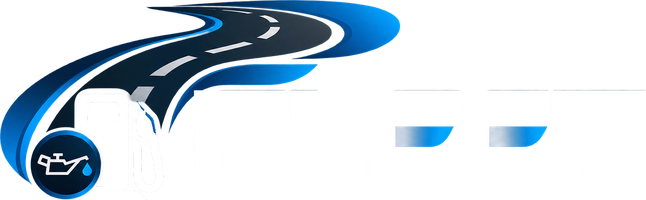
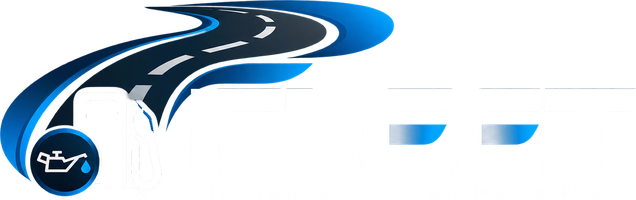
FLEET volta com o subtítulo; Manaus Luz sem subtítulo
Claude-Session: https://claude.ai/code/session_01Hc63GVNXg4wSzkGymq9e8X

diff --git a/assets/estilo.css b/assets/estilo.css
@@ -264,7 +264,7 @@ body.fundo-pc .card,body.fundo-pc .kpi{box-shadow:0 4px 18px rgba(11,40,90,.08)}
 .top-in{display:grid!important;grid-template-columns:1fr auto 1fr;align-items:center;gap:12px}
 .top-in .acts{justify-self:end}
 .brand-fleet{margin:0;line-height:0;justify-self:start}
-.brand-fleet img{height:46px;width:auto;display:block}
+.brand-fleet img{height:58px;width:auto;display:block}
 .brand-centro{justify-self:center}
 .brand-nome{font-family:var(--f-disp);font-weight:700;font-size:24px;line-height:1;white-space:nowrap}
 .fleet-tema{width:100%;max-width:300px;height:auto;display:block;margin:0 auto 12px}
@@ -272,7 +272,7 @@ body.fundo-pc .card,body.fundo-pc .kpi{box-shadow:0 4px 18px rgba(11,40,90,.08)}
 :root[data-theme="dark"] .fleet-tema{display:none}
 :root[data-theme="dark"] .fleet-tema.escuro{display:block}
 @media (prefers-color-scheme:dark){:root:not([data-theme="light"]) .fleet-tema{display:none}:root:not([data-theme="light"]) .fleet-tema.escuro{display:block}}
-@media (max-width:760px){.top-in{grid-template-columns:auto 1fr}.brand-centro{grid-column:1/-1;grid-row:2;justify-self:start}.brand-fleet img{height:38px}.brand-nome{font-size:20px}}
+@media (max-width:760px){.top-in{grid-template-columns:auto 1fr}.brand-centro{grid-column:1/-1;grid-row:2;justify-self:start}.brand-fleet img{height:46px}.brand-nome{font-size:20px}}
 .inicio-logo{justify-content:space-between;flex-wrap:wrap;gap:12px}
 .inicio-fleet{margin:0;line-height:0;flex:0 1 auto}
 .inicio-fleet img.fleet-tema{width:100%;max-width:190px;margin:0;background:none;padding:0;border-radius:0}
